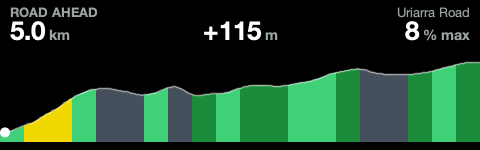
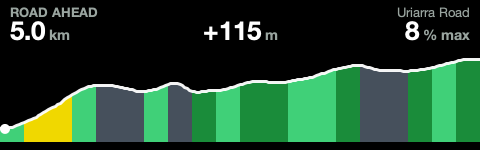
Pictures and words for 0.2.0
The README screenshot and the website's field pictures are redrawn by the
0.2.0 engine, and the page describes what it now does at a junction. The
replay tool runs without a window system, so it always exits.

Changed region(s): [[0.0, 0.3733, 1.0, 0.9333]]

diff --git a/web/public/index.html b/web/public/index.html
@@ -48,7 +48,7 @@
 <section class="tap" id="tap">
   <div class="tap-words">
     <h2 class="reveal" data-part="tap-heading">The next 2 km.</h2>
-    <p class="reveal">Tap the field on a ride and it steps between 2, 5 and 10 km. Try it here. This is Uriarra Road, drawn by the same code that runs on the Karoo.</p>
+    <p class="reveal">Tap the field on a ride and it steps between 2, 5 and 10 km. Try it here. This is Uriarra Road, drawn by the same code that runs on the Karoo. On a half-width tile it drops the numbers and shows the graph alone.</p>
   </div>
   <button class="bigfield reveal" data-ui type="button" aria-label="The Road ahead field. Tap it to step between 2, 5 and 10 kilometres.">
     <img data-part="tap-field" src="assets/tall-2000.png" width="480" height="300" alt="The field at its tall size: 2.0 km of Uriarra Road">
@@ -57,13 +57,13 @@
 
 <section class="proof" id="proof">
   <div class="proof-words reveal">
-    <h2>Checked on 214 km of real rides</h2>
-    <p>The guess was replayed against five recorded rides around Canberra and scored against the road then ridden. It gets the heights right and stops at junctions it can't call. When it's wrong, it's mostly because the rider turned off, and nothing predicts that.</p>
+    <h2>Checked on 454 km of real rides</h2>
+    <p>The guess was replayed against nine recorded rides around Canberra and scored against the road then ridden. It gets the heights right and almost always fills the distance you asked for. Past a junction it is a guess, and it says so by drawing that part dimmer.</p>
   </div>
   <dl class="figures">
     <div class="reveal"><dt>1.5 to 3 m</dt><dd>The typical gap between the height it drew and the height the ride recorded.</dd></div>
-    <div class="reveal"><dt>2 to 9%</dt><dd>How often it guessed a turn when the rider went straight on.</dd></div>
-    <div class="reveal"><dt>27 to 66%</dt><dd>How often the whole next 2 km was the road then ridden, depending on the ride.</dd></div>
+    <div class="reveal"><dt>82%</dt><dd>How often the field showed the full 2 km. It was 44% when it stopped at every junction.</dd></div>
+    <div class="reveal"><dt>58%</dt><dd>How much of the picture, on average, turned out to be the road then ridden.</dd></div>
   </dl>
 </section>
 
@@ -103,7 +103,7 @@
       <li><button type="button" aria-controls="answer" data-a="No. That's the point. It works on any ride, and before you press start. With a route loaded it still follows the road you're actually on.">Does it need a route?</button></li>
       <li><button type="button" aria-controls="answer" data-a="No. Everything runs on the Karoo. The roads come from the Karoo's own offline map, and the elevation is fetched once over Wi-Fi.">Does it need my phone or an account?</button></li>
       <li><button type="button" aria-controls="answer" data-a="The Karoo's Climber draws a profile only once it has detected a real climb. On lumps and flats with no route, its climb fields read Off Climb. Road Ahead draws the road all the time.">Doesn't the Karoo do this already?</button></li>
-      <li><button type="button" aria-controls="answer" data-a="It follows one road. Where that road meets a T-junction or a fork, it can't know which way you'll turn, so it stops there and marks the junction. Turn, and it redraws in a couple of seconds.">Why does the profile stop short?</button></li>
+      <li><button type="button" aria-controls="answer" data-a="It carries on along the likeliest road: the one with the same name, otherwise the smallest turn. From the first junction it had to guess at, the profile is dimmer, with a tick where the guessing starts. Turn the other way and it redraws in a couple of seconds. You can set it to stop at junctions instead.">What does it do at a junction?</button></li>
       <li><button type="button" aria-controls="answer" data-a="The elevation grid is 30 m. On sealed roads the shape and the heights are good. Off-road, under heavy tree cover and in cuttings, trust the shape more than the pitch numbers.">How accurate is it?</button></li>
       <li><button type="button" aria-controls="answer" data-a="Nothing about you. It downloads elevation files for the one-degree squares around you from a public archive, so that archive's server sees which squares were asked for, and nothing else.">What does it send?</button></li>
       <li><button type="button" aria-controls="answer" data-a="The Karoo 3, installed from your phone. It should also run on a Karoo 2 over a cable, but that hasn't been tested yet.">Which Karoos does it work on?</button></li>

diff --git a/web/public/site.js b/web/public/site.js
@@ -15,7 +15,7 @@ document.querySelectorAll(".reveal").forEach((el) => seen.observe(el));
 const DISTANCES = [
   { km: "2", file: "2000", caption: "Free · no phone · no account" },
   { km: "5", file: "5000", caption: "Tap the field and it shows 5 km." },
-  { km: "10", file: "10000", caption: "Tap again for 10 km. It stops at the junction it can't call." },
+  { km: "10", file: "10000", caption: "Tap again for 10 km. Past a junction it guesses, and draws the guess dimmer." },
 ];
 for (const d of DISTANCES) { new Image().src = `assets/field-${d.file}.png`; new Image().src = `assets/tall-${d.file}.png`; }
 function swap(img, src, alt) {
@@ -50,7 +50,7 @@ $(".bigfield").addEventListener("click", () => {
 const row = (a, b) => `<div class="row"><span>${a}</span><b>${b}</b></div>`;
 const STAGES = [
   ["First, it finds your road.", row("Nearest road that runs your way", "Uriarra Road") + row("A footpath beside it", "ignored") + row("Until you leave it", "it holds on")],
-  ["Then it follows it ahead.", row("A piece with the same name", "carry on") + row("The straightest way on, within 30°", "carry on") + row("A T-junction or a fork", "stop there")],
+  ["Then it follows it ahead.", row("A piece with the same name", "carry on") + row("The straightest way on, within 30°", "carry on") + row("A T-junction or a fork", "its best guess, drawn dimmer")],
   ["Next, it reads the heights.", row("Elevation grid", "30 m") + row("A sample along the road", "every 25 m") + row("Bridges and tunnels", "ruled straight")],
   ["Last, it draws the road.", `<img src="assets/field-5000.png" width="480" height="150" alt="The Road ahead field: 5 km of Uriarra Road">` + row("Blocks coloured by grade", "the Karoo's own colours") + row("Downhill", "grey")],
 ];
